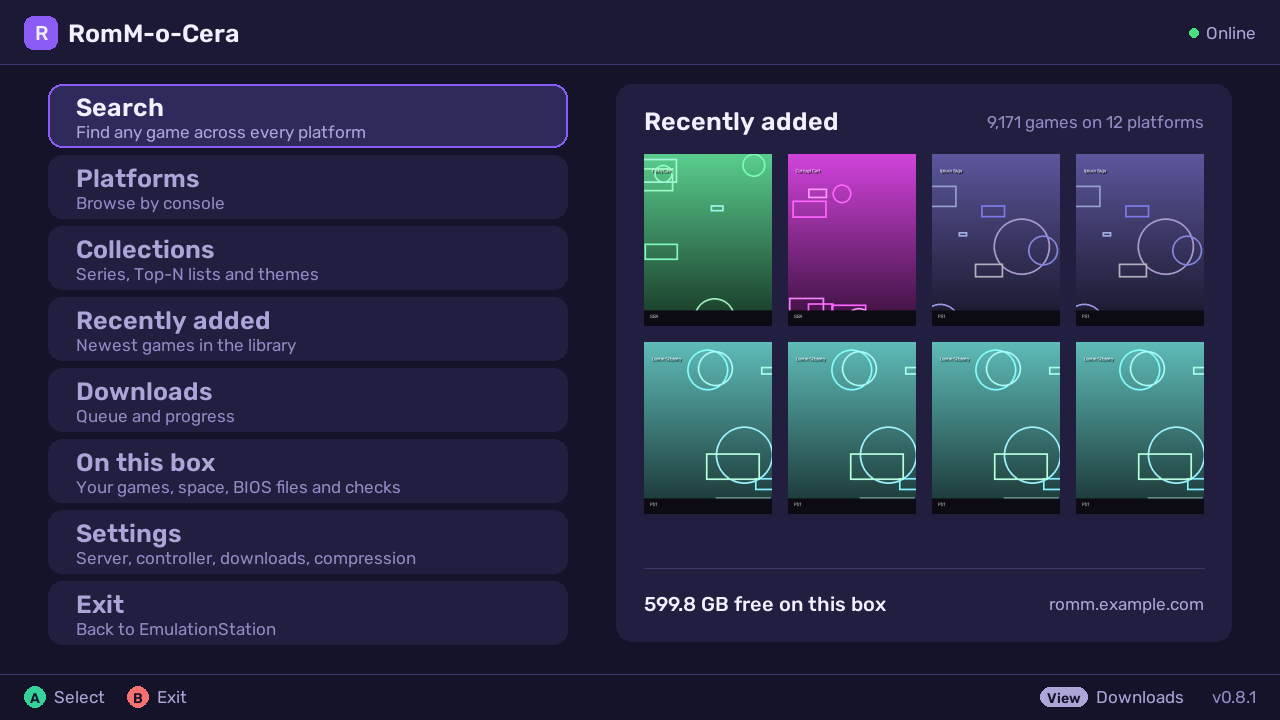
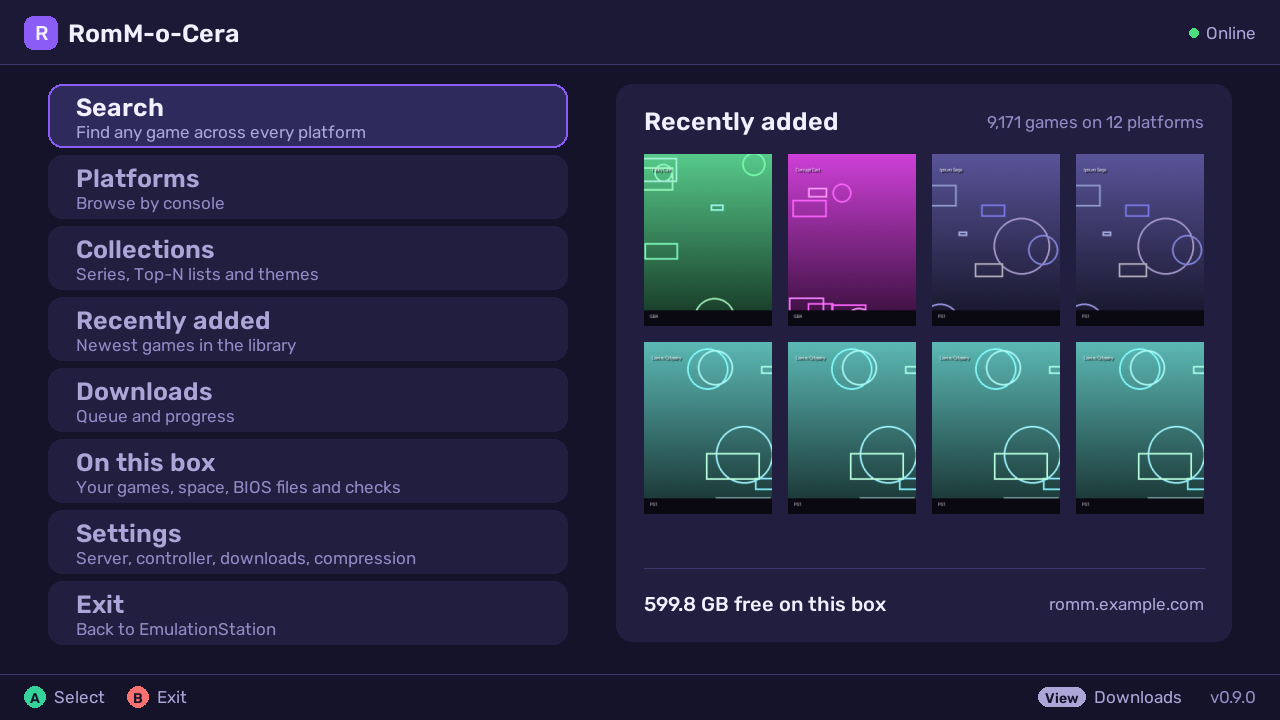
chore: v0.9.0

diff --git a/rommlib.py b/rommlib.py
@@ -33,7 +33,7 @@ from typing import Callable, Optional
 
 import requests
 
-VERSION = "0.8.1"            # changes only for a real GitHub release
+VERSION = "0.9.0"            # changes only for a real GitHub release
 BUILD = ""                   # internal builds: deploy.sh stamps the git commit here (empty in releases)
 VERSION_LABEL = VERSION + ("+" + BUILD if BUILD else "")
 

diff --git a/CHANGELOG.md b/CHANGELOG.md
@@ -2,3 +2,34 @@
 
 Every stable release. Nightly builds: the commits on main since the last one.
 Releases up to v0.8.0: [GitHub Releases](https://github.com/fraygox/romm-o-cera/releases).
+
+## v0.9.0 (2026-10-12)
+
+update channels, half the memory at 4K, and a busy RomM no longer breaks covers or downloads
+
+### Features
+- **feat:** *Update channel* (Settings → Updates): **Stable** gets releases; **Nightly** also gets builds of the newest changes as they land: fixes sooner, less tested. Updates finds the newest one straight away, and back on Stable you keep the nightly until a release is newer. From the shell: `curl -fsSL https://github.com/fraygox/romm-o-cera/releases/latest/download/install.sh | VERSION=nightly sh`.
+
+### Performance
+- **perf:** Memory stays bounded however long you browse. Scrolling a long list at 4K used to grow the app past 1.1 GB; it now levels off around 450 MB, and boxes with under 3 GB of RAM keep half as much again. Covers are kept at the size they're drawn, and long lists keep only the pages near the cursor.
+- **perf:** Check games, BIOS lookups and long game lists ask RomM several things at once: a full check of a large library takes about 40% less time, and keeps only the games on the box in memory.
+- **perf:** Covers load on a fixed set of threads, newest first, so the screen you're looking at fills before the rows you scrolled past.
+
+### Fixes
+- **fix:** When RomM (or the proxy in front of it) is busy, the app sends it fewer requests at once and tries again after the wait it asks for, for covers, lists and downloads alike, instead of every request failing. Connections are kept open and shared, including after an error.
+- **fix:** A cover that didn't load is fetched again a little later, instead of showing "no cover" for the rest of the session.
+- **fix:** Korean titles, Greek letters and symbols such as Ⅱ and ‼ draw instead of showing as boxes.
+- **fix:** Batocera's screenshot hotkey no longer hides the app behind a white screen.
+- **fix:** A quick keyboard tap moves the selection once instead of running on by itself.
+- **fix:** A screen that can't reach RomM says so in red, instead of showing an empty or all-clear list.
+- **fix:** Compress can make Xbox images bootable even when Xbox to squashfs is off.
+- **fix:** "Convert next" and "Remove from the queue" leave alone a conversion that has already started or finished.
+- **fix:** Deleting a multi-disc set frees its space for conversions waiting on it.
+- **fix:** Multi-disc playlists are written all at once, so a crash can't leave half of one.
+- **fix:** Without chdman, Check games reports the CHDs it couldn't verify, instead of calling them damaged.
+- **fix:** The app starts on a full disk instead of crashing.
+- **fix:** BIOS and PS3 key downloads are written to disk in full before they're put in place.
+
+### Under the hood
+- **ci:** Every change is now published to GitHub as it's made; GitHub Actions test each one, build the nightly, and publish releases and the docs site.
+

diff --git a/README.md b/README.md
@@ -5,7 +5,7 @@ A controller-driven app that runs **on a Batocera box**: browse and search a
 games straight into the right `/userdata/roms/<system>/` folder — extracted,
 optionally CHD-compressed, with EmulationStation metadata and cover art.
 
-**Early software (v0.8.1).** It works on the author's box every day, but it
+**Early software (v0.9.0).** It works on the author's box every day, but it
 has one author and few users so far — expect rough edges, and please file
 issues. Built for **Batocera 43** (pygame 2.6, Python 3.12) and tested
 against **RomM 5.4** (5.3 works too). Draws natively at any resolution, 720p
